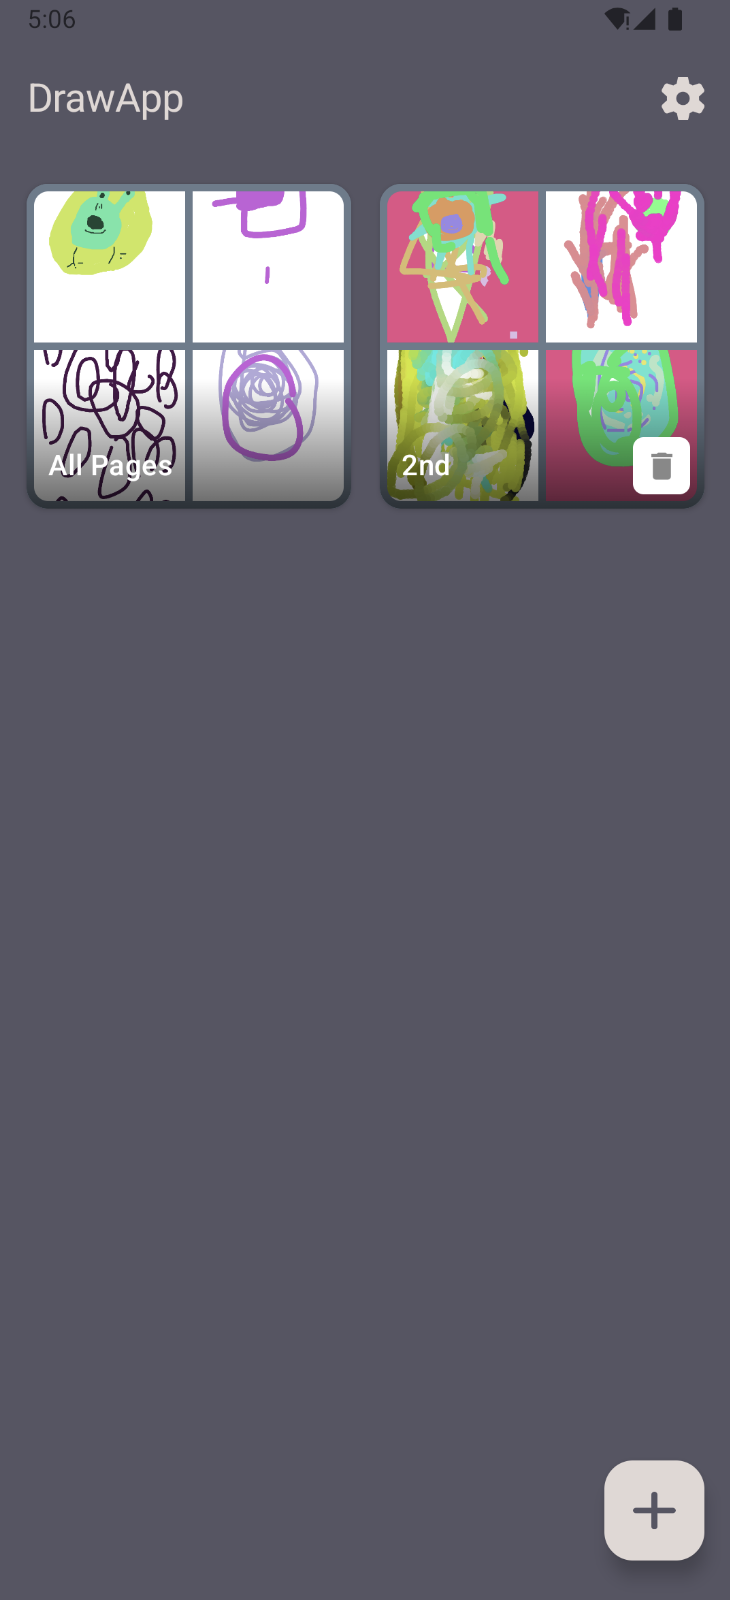
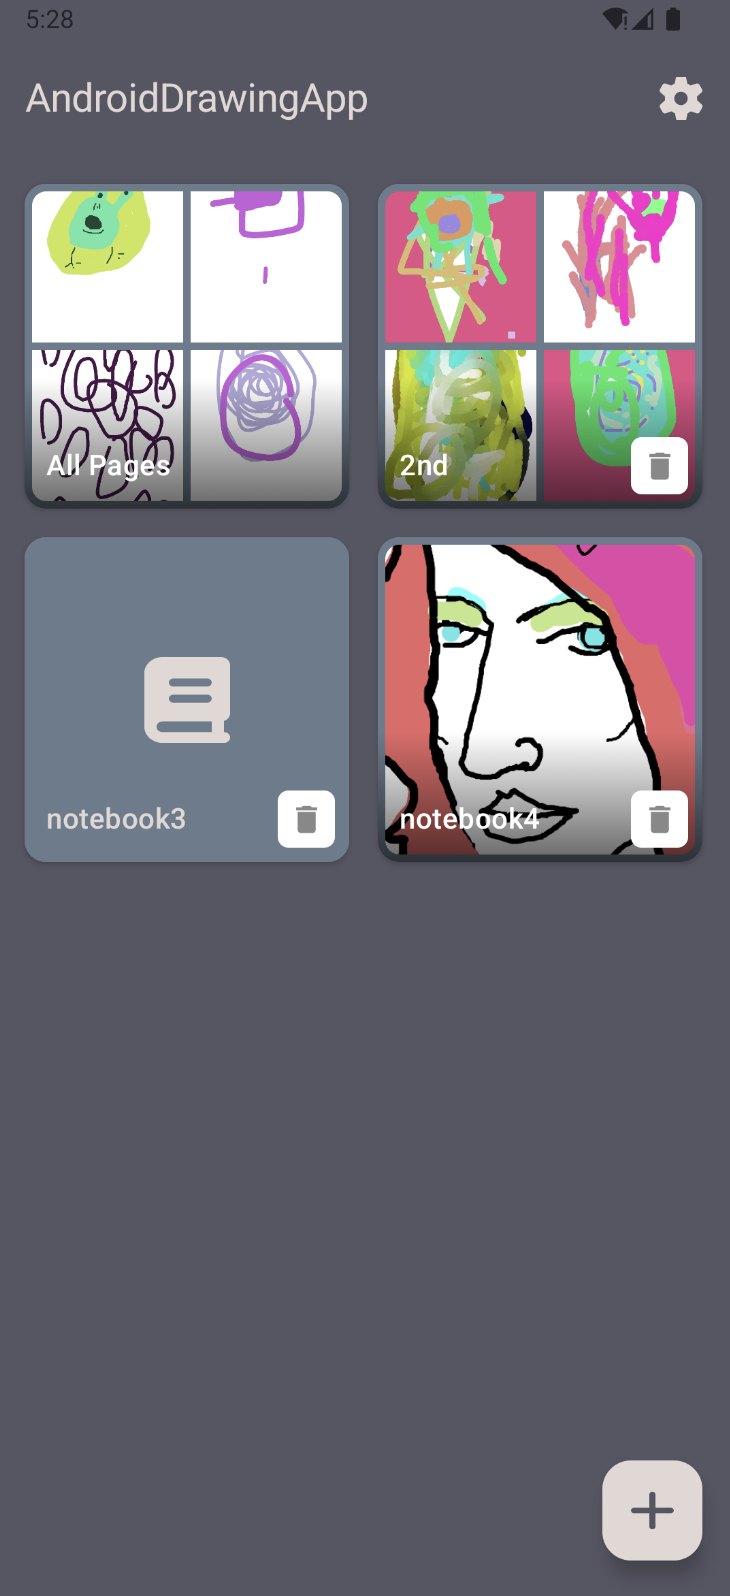
Rename app to AndroidDrawingApp

diff --git a/app/src/main/java/com/example/drawingapp/MainActivity.kt b/app/src/main/java/com/example/drawingapp/MainActivity.kt
@@ -36,7 +36,7 @@ import com.example.drawingapp.ui.notebooklist.NotebookListScreen
 import com.example.drawingapp.ui.notebooklist.NotebookPagesScreen
 import com.example.drawingapp.ui.pagelist.PageListScreen
 import com.example.drawingapp.ui.settings.SettingsScreen
-import com.example.drawingapp.ui.theme.ExampleDrawingAppTheme
+import com.example.drawingapp.ui.theme.AndroidDrawingAppTheme
 import kotlinx.coroutines.Dispatchers
 import kotlinx.coroutines.launch
 import kotlinx.coroutines.withContext
@@ -45,7 +45,7 @@ class MainActivity : ComponentActivity() {
     override fun onCreate(savedInstanceState: Bundle?) {
         super.onCreate(savedInstanceState)
         setContent {
-            ExampleDrawingAppTheme {
+            AndroidDrawingAppTheme {
                 Surface(modifier = Modifier.fillMaxSize()) {
                     val context = LocalContext.current
                     val appContext = context.applicationContext
@@ -182,7 +182,7 @@ class MainActivity : ComponentActivity() {
                                 onSaveBackgroundColor = { id, color -> repo.savePageBackgroundColor(id, color) },
                                 onExport = { bmp ->
                                     exportDrawingAsPng(context, bmp)?.let { uri ->
-                                        Toast.makeText(context, "Saved to Pictures/DrawingApp", Toast.LENGTH_SHORT).show()
+                                        Toast.makeText(context, "Saved to Pictures/AndroidDrawingApp", Toast.LENGTH_SHORT).show()
                                         shareUri(context, uri)
                                     }
                                 },

diff --git a/app/src/main/java/com/example/drawingapp/ui/notebooklist/NotebookListScreen.kt b/app/src/main/java/com/example/drawingapp/ui/notebooklist/NotebookListScreen.kt
@@ -53,6 +53,7 @@ import androidx.compose.ui.graphics.Brush
 import androidx.compose.ui.graphics.Color
 import androidx.compose.ui.layout.ContentScale
 import androidx.compose.ui.res.painterResource
+import androidx.compose.ui.res.stringResource
 import androidx.compose.ui.unit.dp
 import androidx.compose.ui.draw.clip
 import androidx.compose.ui.graphics.asImageBitmap
@@ -89,7 +90,7 @@ fun NotebookListScreen(
                     titleContentColor = NOTEBOOK_LIST_ICON_COLOR,
                     actionIconContentColor = NOTEBOOK_LIST_ICON_COLOR
                 ),
-                title = { Text("DrawApp", color = NOTEBOOK_LIST_ICON_COLOR) },
+                title = { Text(stringResource(R.string.app_name), color = NOTEBOOK_LIST_ICON_COLOR) },
                 actions = {
                     IconButton(onClick = onSettingsClick) {
                         Icon(

diff --git a/app/src/main/java/com/example/drawingapp/ui/pagelist/PageListScreen.kt b/app/src/main/java/com/example/drawingapp/ui/pagelist/PageListScreen.kt
@@ -27,6 +27,7 @@ import androidx.compose.material3.AlertDialog
 import androidx.compose.material3.IconButton
 import androidx.compose.material3.TopAppBarDefaults
 import androidx.compose.ui.res.painterResource
+import androidx.compose.ui.res.stringResource
 import com.example.drawingapp.R
 import androidx.compose.material3.Card
 import androidx.compose.material3.CardDefaults
@@ -81,7 +82,7 @@ fun PageListScreen(
                     titleContentColor = PAGE_LIST_ICON_COLOR,
                     actionIconContentColor = PAGE_LIST_ICON_COLOR
                 ),
-                title = { Text("DrawApp", color = PAGE_LIST_ICON_COLOR) },
+                title = { Text(stringResource(R.string.app_name), color = PAGE_LIST_ICON_COLOR) },
                 actions = {
                     IconButton(onClick = onSettingsClick) {
                         Icon(

diff --git a/app/src/main/java/com/example/drawingapp/util/ExportHelper.kt b/app/src/main/java/com/example/drawingapp/util/ExportHelper.kt
@@ -16,7 +16,7 @@ import java.text.SimpleDateFormat
 import java.util.Date
 import java.util.Locale
 
-private const val EXPORT_SUBDIR = "DrawingApp"
+private const val EXPORT_SUBDIR = "AndroidDrawingApp"
 private const val RELATIVE_PATH_PICTURES = "Pictures/$EXPORT_SUBDIR"
 
 @Suppress("UNUSED_PARAMETER")

diff --git a/app/src/main/java/com/example/drawingapp/ui/theme/Theme.kt b/app/src/main/java/com/example/drawingapp/ui/theme/Theme.kt
@@ -25,7 +25,7 @@ private val LightColorScheme = lightColorScheme(
 )
 
 @Composable
-fun ExampleDrawingAppTheme(
+fun AndroidDrawingAppTheme(
     darkTheme: Boolean = isSystemInDarkTheme(),
     content: @Composable () -> Unit
 ) {

diff --git a/README.md b/README.md
@@ -1,4 +1,4 @@
-# DrawApp
+# AndroidDrawingApp
 
 Android drawing app (Kotlin, Jetpack Compose + a custom `View` canvas). Organize work into notebooks and pages, draw on stacked bitmap layers, and export PNG.
 
@@ -52,7 +52,7 @@ Stroke tools also place a **dot on tap** (circle or square, matching the cap sty
 ### Persistence and export
 - Pages saved locally as layer PNGs plus JSON stroke metadata (`filesDir/pages/`)
 - Tool prefs (size, color, cap, smoothing, closing, favorites) in SharedPreferences
-- Export composited PNG to `Pictures/DrawingApp` and share via the system sheet
+- Export composited PNG to `Pictures/AndroidDrawingApp` and share via the system sheet
 - Optional AWS S3 backup/restore (Cognito + bucket; only if `AWS_S3_BUCKET` and `AWS_COGNITO_POOL_ID` are set in `app/build.gradle.kts`)
 
 ## How drawing is implemented
